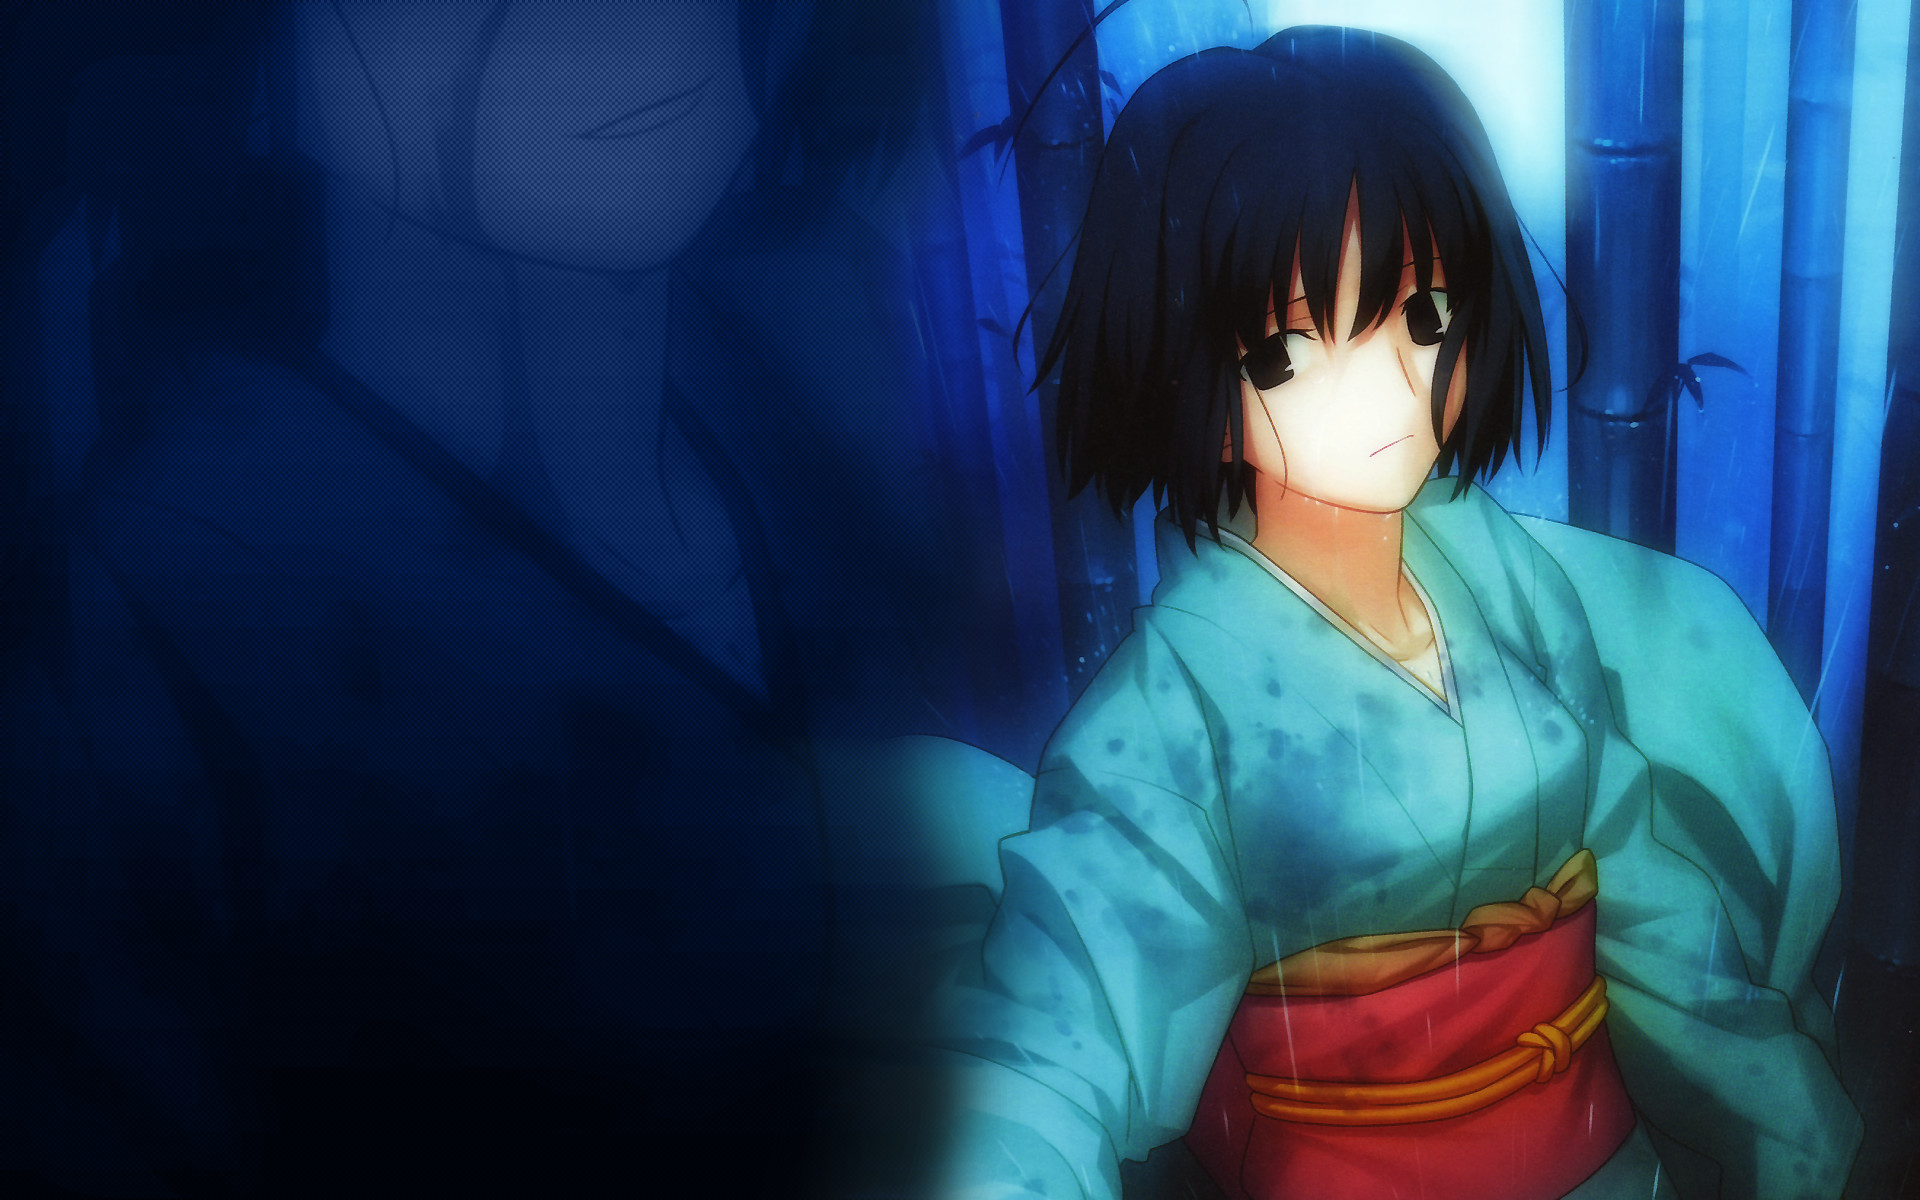
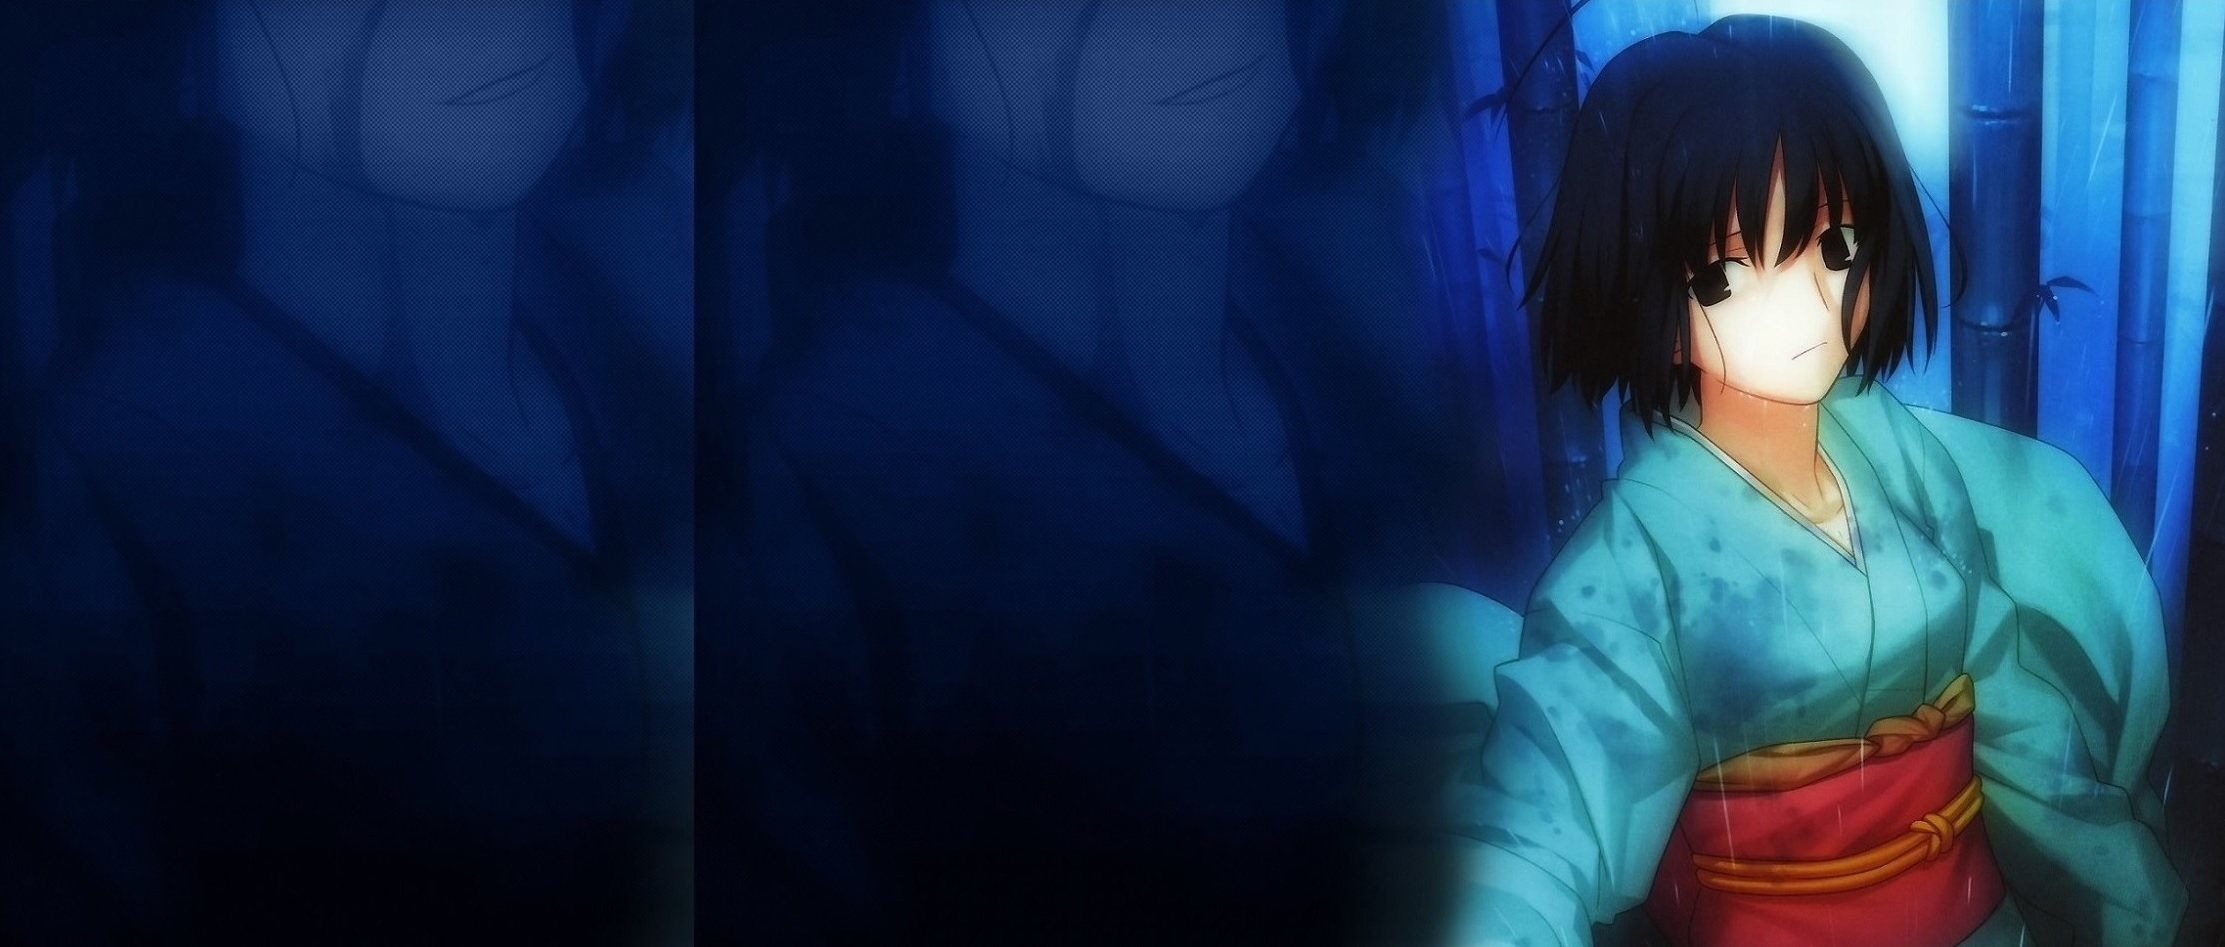
prepa n3

diff --git a/n3.html b/n3.html
@@ -34,191 +34,79 @@
 
 			<article>
 				<h3 class="titres">Historique :</h3>
-				<p>Genre : Science-Fiction, Mystère, Thriller, Comédie, Drame, Romance.</p>
-				<p>Steins;Gate est originellement un Visual Novel, un certain type de jeu-vidéo japonais.<br/>
-				En termes simplifiés, c'est un roman interactif illustré en permanence nous offrant le choix de choisir ce que le protagoniste fait à certains moments, modifiant ainsi l'histoire.<br/>
-				Il est développé par 5pb. et Nitroplus, et est sorti en Octobre 2009 sur Xbox 360, avant d'arriver sur PC en Aout 2010, puis sur d'autres plateformes ensuite.<br/>
-				Une suite intitulé "Steins;Gate 0" est sorti en Décembre 2015.<br/>
-				Il sont tous deux illustrés par Huke, un célèbre dessinateur japonais possédant un style très particulier, reconnaissable notamment par les "particules" présentes sur ses œuvres, ainsi que par les yeux de ses personnages, semblables à des lentilles d'appareil photo.</p>
-				<p>Le jeu original a été applaudi par les critiques et joueurs comme étant l'un des meilleurs Visual Novel, ainsi que l'une des meilleures histoire de science-fiction, voyage dans le temps et thriller japonais.<br/>
-				<p>Il a été adapté en un Animé de 24 épisodes par le studio WhiteFox en 2011, et est connu comme l'un des meilleurs Animés de tous les temps, étant actuellement classé 4ème avec un score de 9.09/10 sur la plateforme <a href="https://myanimelist.net/topanime.php">MyAnimeList</a>, tandit que Steins;Gate 0 a été adapté en 23 épisodes en 2018, toujours par WhiteFox.<br/>
-				Suite au succès des Animés, une version "Elite" du jeu original est sortie, retirant certains passages du scénario au profit d'ajout de scènes directement tirés de l'Animé.<br/>
-				La version Elite de 0 à été annoncé, mais nous n'avons pour le moment aucun détail dessus.</p>
-				<p>Pour fêter les 10 ans du jeu original, plusieurs annonces ont été faîtes.<br/>
-				Elles incluent notamment un nouveau jeu servant de suite, ainsi qu'une adaptation en série télévisé américaine.</p>
-				<p>Les trois jeux sont disponible sur Steam ainsi que sur différents Stores virtuels.<br/>
-				Quant aux Animés, l'original est licencié par Netflix, mais semble partir et revenir de temps à autre, tandit que 0 est accessible sur Wakanim.</p>
-				<p>Il est bon de noter que Steins;Gate n'est en réalité qu'une partie d'une série bien plus grande, intitulé "Science Adventure Series", qui consiste en de multiples jeux-vidéos se déroulant dans le même univers fictif crée par 5pb. et Nitroplus.</p>
+				<p>Genre : Enigme, Mystère, Thriller, Psychologie, Horreur, Romance, Drame, Surnaturel, Police.</p>
+				<p></p>
 			</article>
 
 			<article>
 				<h2 class="titres">Synopsis :</h2>
-				<p>Okabe Rintarou est un jeune homme aimant se faire passer pour "Hououin Kyouma", un scientifique fou pourchassé par une organisation secrète mondiale voulant la fin du monde, causant l'amusement de ses amis proches.</p>
-				<p>Un jour, alors qu'il assiste à une conférence scientifique sur le voyage dans le temps, il découvre le corps sans vie de Makise Kurisu, une jeune prodige des sciences extrèmement connue pour ses théories innovantes sur de nombreux sujets, une véritable étoile montante du monde scientifique.<br/>
-				En envoyant un message à un de ses amis pour le prévenir de la nouvelle, il se retrouve dans un monde sans personne, avant de reprendre conscience quelques minutes plus tard, avec certains phénomènes étranges s'étant passé entre-temps...</p>
-				<p>Pensant avoir perdu connaissance suite au choc, Okabe ne prête pas trop attention à ce qu'il lui est arrivé, jusqu'à ce qu'il remarque que ses souvenirs ne correspondent pas avec ceux de ses amis, et rencontre Makise Kurisu, bel et bien vivante.<br/>
-				Il découvre alors que, par pur hasard, lui et ses amis ont créé une machine à voyager dans le temps !</p>
-				<p>Jouissant de cet outil fascinant, Okabe et ses amis, qui seront également rejoints par Makise Kurisu, réaliseront de multiples expériences, jusqu'à ce qu'ils doivent en payer les conséquences...</p>
-				<figure class="fig">
-					<iframe width="560" height="315" src="https://www.youtube.com/embed/KPjGd8zKecE"></iframe>
-					<figcaption>L'Opening du jeu, illustrant un peu plus que celui de l'Animé. (Et puis je préfère cette musique-ci)</figcaption>
-				</figure>
+				<p></p>
 			</article>
 
 			<article>
 				<h2 class="titres">Personnages Principaux :</h2>
 				<div class="PP">
-					<h3 class="soustitres">Okabe Rintarou</h3>
+					<h3 class="soustitres">Shiki Ryougi</h3>
 					<div>
 						<figure>
-							<img src="images/SG/Okabe.jpg" alt="Okabe Rintarou, le protagoniste" class="IMGfloatr"/>
+							<img src="images/KNK/Shiki.jpg" alt="Shiki Ryougi, le protagoniste" class="IMGfloatr"/>
 						</figure>
-						<p>Le protagoniste de l'œuvre; il est surnommé "Okarin" par ses amis, un mélange de son nom et prénom.<br/>
-						Il se fait passer pour "Hououin Kyouma", un scientifique fou voulant assouvir le monde qui est traqué par une organisation secrète voulant la fin de celui-ci, prenant ainsi une attitude très théâtral et excentrique, parlant même seul dans son téléphone éteint.</p>
-						<p>Okabe est socialement inapte, au point que Kurisu considère Mayuri, qui est lente d'esprit, comme quelqu'un de normal à côté de lui.<br/>
-						Il semble cependant réussir à surmonter ce handicap lors de situations dangereuses, le laissant paraître comme une personne attentionné.<br/>
-						Il est également intelligent, mais loin du niveau d'un génie tel que Kurisu, surtout que sa naïveté le bride.</p>
-						<p>Il est représenté en permanence avec une blouse blanche de scientifique, qu'il affectionne grandement.</p>
+						<p></p>
 					</div>
 
-					<h3 class="soustitres">Makise Kurisu</h3>
+					<h3 class="soustitres">Mikiya Kokuto</h3>
 					<div>
 						<figure>
-							<img src="images/SG/Kurisu.jpg" alt="Makise Kurisu, la chercheuse de génie" class="IMGfloatr"/>
+							<img src="images/KNK/Mikiya.jpg" alt="Mikiya, le garçon gentil" class="IMGfloatr"/>
 						</figure>
-						<p>Deutéragoniste du récit; Kurisu est une jeune femme japonaise ayant fait ses études en Amérique.<br/>
-						Elle est une véritable génie des sciences ayant écrit de nombreuses thèses publiées dans divers magazines faisant le tour du monde, ce qui a fait d'elle une véritable
-						célébrité à la fois en Amérique et au Japon.</p>
-						<p>Dû à sa célébrité, Kurisu est souvent enviée par les personnes autour d'elle, la forçant à développer une personnalité forte et froide, lui causant de n'avoir que très peu d'amis.<br/>
-						L'étrange personnalité d'Okabe piquera sa curiosité, l'amenant à rejoindre son cercle d'amis.</p>
-						<p>Elle est une "tsundere", un cliché de personnalité japonais désignant les personnes qui ont honte de leurs sentiments affectueux, les poussant à les cacher sous un masque de colère et de froideur.</p>
+						<p></p>
 					</div>
 
-					<h4 class="soustitres">Mayuri Shina</h4>
+					<h4 class="soustitres">Touko Aozaki</h4>
 					<div>
 						<figure>
-							<img src="images/SG/Mayuri.jpg" alt="Mayuri Shina, l'amie d'enfance du protagoniste" class="IMGfloatr"/>
+							<img src="images/KNK/Touko.jpg" alt="Touko Aozaki, l'étrange magicienne" class="IMGfloatr"/>
 						</figure>
-						<p>L'amie d'enfance d'Okabe; qui, tout comme lui, est surnommé par un mélange de son nom et prénom, donnant ainsi "Mayushi".</p>
-						<p>Mayuri est une jeune fille optimiste très énergétique appréciant la vie, qui a la particularité de saluer quelqu'un avec un jingle qui lui est propre : "Tuturuuu".<br/>
-						Etant un petit peu lente d'esprit, elle ne comprend pas vraiment ce que Okabe et Kurisu réalisent au cours de la série, mais aime être à leurs côtés.</p>
-						<figure>
-							<iframe width="300" height="120" src="https://www.youtube.com/embed/Tuql5GfWnP4"></iframe>
-						</figure>
-					</div>
-					
-					<h4 class="soustitres">Itaru Hashida</h4>
-					<div>
-						<figure>
-							<img src="images/SG/Daru.jpg" alt="Daru Hishida, le pro de l'informatique" class="IMGfloatr" id="Daru"/>
-						</figure>
-						<p>Un ami qu'Okabe s'est fait lorsqu'il était à l'université; il est également surnommé par un mélange de son nom et prénom : "Daru".</p>
-						<p>Itaru est un véritable otaku, préférant le virtuel au réel, et utilisant beaucoup de termes liés à cette communauté.<br/>
-						Il a aussi un niveau absolument démentiel en informatique, ce faisant ainsi appelé "Super Hacker" par Okabe, bien qu'il soit énervé par la mauvaise prononciation d'Okabe.<br/>
-						Il démontre également une grande perversité, qui est utilisé comme gag récurrent durant la série.</p>
-						Il est représenté en quasi-permanence devant son ordinateur.</p>
+						<p></p>
 					</div>
 				</div>
 			</article>
 
 			<article>
 				<h2>Pourquoi j'aime cette œuvre :</h2>
-				<h3 class="soustitres">1. Le concept de voyage dans le temps</h3>
-				<p>Je suis un fan du concept de voyage dans le temps, et j'ai apprécié, au moins un minimum, toutes les œuvres que j'ai regardé utilisant ce procédé, notamment celles qui utilisent l'effet papillon.</p>
-				<p>Steins;Gate va plus loin que la plupart en référencant des théories et personallités réelles, tel que les trous noir de Kerr, les étoiles à Neutrons, les champs de Tachyons... faisant ainsi du récit de Steins;Gate l'un, si ce n'est le, plus plausible et crédible scientifiquement et théoriquement parlant.<br/>
-				Le fameux John Titor et ses théories se verront quant à eux appropriés par l'œuvre, utilisant activement le personnage additionnées aux les trous noir de Kerr et à un système de "ligne d'univers".<br/>
-				Le scénariste en est d'ailleurs fier, déclarant que la science utilisé dans son histoire est à 99% réelle.</p>
-				<p id="Titor">Pour ceux qui ne connaissent pas John Titor, je vous invite vivement à faire un petit tour sur <a href="http://paulbinocle.blogspot.com/2006/11/dossier-john-titor.html">ce petit blog</a>, reprenant les grandes lignes de l'affaire.</p>
-				<p>De plus, le récit contient certaines originalités, tel qu'une machine à voyager dans le temps sous forme de micro-onde, ce qui peut paraître absurde au premier abord, mais se révelera vraisemblable lorsques les explications scientifiques le concernant sont données plus tard dans le récit.</p>
-				<p>Ces originalités, couplées à la présence de nombreuses explications et expériences théoriquement plausible, font de Steins;Gate une expérience unique, qui ravi le fan de ce concept fascinant que je suis.</p>
+				<h3 class="soustitres">1. </h3>
+				<p></p>
 
-				<h3 class="soustitres">2. Le thriller</h3>
-				<p>Aujourd'hui, Steins;Gate est surtout réputé pour son aspect thriller qui, de par son utilisation de voyages dans le temps, brise le mental des personnages, nous happant ainsi dans une histoire qui nous enflamme.</p>
-				<p>La lente découverte des conséquences de leurs actions brisera les personnages, surtout Okabe, dont la douleur, le stress et le désespoir est incroyablement bien retranscrit.<br/>
-				Bien qu'il se fasse passer pour le fameux scientifique fou "Hououin Kyouma", il reste bel et bien un homme plus ou moins ordinaire, et se verra complètement dépassé par ce qu'il lui arrive, mais n'abandonnera pas et continuera de se battre contre le temps, faisant de l'histoire un thriller incroyablement accrochant, nous scotchant sur notre siège.</p>
+				<h3 class="soustitres">2. </h3>
+				<p></p>
+
+				<h3 class="soustitres">3. </h3>
+				<p></p>
 			</article>
 
 			<article>
 				<h2>Les points positifs et négatifs :</h2>
-				<p><mark class="ppos">.</mark> <mark class="lex">La partie thriller</mark>, qui est captivante et émouvante.</p>
-				<p><mark class="ppos">.</mark> <mark class="lex">Les explications sur le voyage dans le temps</mark>, qui sont fascinantes et plausibles.</p>
-				<p><mark class="ppos">.</mark> <mark class="lex">Le doublage</mark>, qui est au top.<br/>
-				Surtout Mamoru Miyao, qui a fait une performance spectaculaire sur Okabe.</p>
-				<p><mark class="ppos">.</mark> <mark class="lex">La musique</mark>, qui, dans la partie thriller, amplifie la tension.<br/>
-				Celle de la partie "tranche-de-vie" est cependant, je trouve, oubliable.</p>
-				<p><mark class="ppos">.</mark> <mark class="lex">L'Animation et le style de dessin</mark>, qui sont extrèmement constants.<br/>
-				Ils sont d'un bon niveau, sans pour autant être extraordinaires, mais ils sont très constants, donnant un très bon rendu.</p>
-				<p><mark class="pneg">.</mark> <mark class="lex">Dur à recommender à un néophyte</mark>, vu la quantité de références geek/otaku.</p>
-				<p><mark class="pneg">.</mark> <mark class="lex">Les bruitages de cigales</mark>, qui sont un petit peu trop nombreux.<br/>
-				Steins;Gate possède énormément de plans contenant des bruitages de cigales.<br/>
-				Ils sont réalistes, aidant ainsi à l'immersion d'un Akihabara représenté réalistiquement, mais sont honnêtement, je trouve, très agaçants.<br/>
-				Fort heureusement, ils disparaissent lors de la partie thriller, nous empêchant ainsi de nous sortir du récit.</p>
-				<p><mark class="pmid">.</mark> <mark class="lex">Les 12 premiers épisodes</mark>, qui sont très lents.<br/>
-				Prenant bien le temps de nous présenter les personnages, nous donnant des explications sur le voyage dans le temps, et nous montrant les personnages réaliser des expériences, les 12 premiers épisodes sont vraiment lents.<br/>
-				Steins;Gate est aujourd'hui réputé et vendu comme étant un thriller fascinant, pas pour ses gags entre personnages, causant beaucoup de spectateurs d'avoir du mal avec ces épisodes, leur donnant presque envie d'arrêter de regarder.</p>
-				<p>Personnellement, j'était captivé par les explications et experiences de cette partie-ci, donc je ne me suis pas ennuyé une seule seconde, bien qu'il est bien vrai que j'ai préféré la partie thriller.</p>
-				<p>A noter que l'épisode 1 est captivant, suivi des épisodes 2 à 11 qui sont bien plus lents, en passant par un épisode 9 qui nous laisse présager la suite, avant de tomber sur la fin du fameux épisodes 12, qui nous fait clairement basculer dans le thriller.</p>
-				<p><mark class="pmid">.</mark> <mark class="lex">Les personnages</mark>, qui sont presque tous des clichés ambulants.<br/>
-				Termes un peu plus techniques que je ne vais pas expliquer, mais entre le chuunibyou, le pervers geek, la tsundere, la fille tête en l'air kawaii, la cat-girl, etc, les personnages de Steins;Gate se noient dans les clichés, ce qui causera la lassitude de certains, bien que tous les personnages sont correctement développées plus tard.</p>
-				<p><mark class="pmid">.</mark> <mark class="lex">La fin</mark>, que beaucoup trouvent anti-climatique.</p>
-				<p><mark class="pmid">.</mark> <mark class="lex">Le mélange des genres</mark>, qui est très, voir trop atypique.<br/>
-				Ce n'est pas pour rien si je parle de "partie" depuis tout à l'heure, les 12 premiers et les 12 derniers épisodes pouvant presque être désignés comme étant des séries différentes.</p>
-				Les 12 premiers épisodes suivent le quotidien de personnages un petit peu fous découvrant le voyage dans le temps, nous offrant beaucoup de scènes d'humour, faisant de la série un "Slice Of Life/Tranche de vie" humouristique avec un fond de science-fiction.<br/>
-				Les 12 derniers épisodes, quant à eux, suivent un Okabe dévasté par ses erreurs alors qu'il essaye de tout réparer, nous accordant ainsi un thriller phénoménale sur bases de science-fiction.</p>
-				<p>Bien que les 12 premiers épisodes semblent barbants pour beaucoup, ces personnes s'accordent à dire qu'ils sont un mal nécessaire nous permettant de connaitre les personnages, sans quoi les épisodes thriller n'auraient absolument aucun poids.</p>
+				<p><mark class="ppos">.</mark> <mark class="lex"></mark>.</p>
+				<p><mark class="pneg">.</mark> <mark class="lex"></mark>.</p>
+				<p><mark class="pmid">.</mark> <mark class="lex"></mark>.</p>
 			</article>
 
 			<article>
 				<h2 class="titres">L'ordre de visionnage :</h2>
-				<h3 class="soustitres">Animé VS Visual Novel</h3>
-				<p>Tout d'abord : Animé ou Visual Novel ?<br/>
-				Pour l'original, l'Animé est une excellente adaptation, mais le Visual Novel contient nettement plus de détails, permettant au fans de voyage dans le temps d'y trouver leur plaisir.<br/>
-				Pour 0... j'en reparlerais après.</p>
-
-				<h3 class="soustitres">L'ordre :</h3>
-				<p>Je vais commencer par donner l'ordre de visionnage, et j'expliquerais ensuite.</p>
-				<ul>
-					<li>Steins;Gate</li>
-					<li>Steins;Gate : Oukoubakko no Poriomania</li>
-					<li>Steins;Gate Movie : Fuka Ryouiki no Déjà vu</li>
-					<li>Steins;Gate : Soumei Eichi no Cognitive Computing</li>
-					<li>Steins;Gate 23β : Kyoukaimenjou no Missing Link - Divide By Zero</li>
-					<li>Steins;Gate 0</li>
-					<li>Steins;Gate 0 : Kesshou Takei no Valentine - Bittersweet Intermedio</li>
-				</ul>
-				<p>Oukoubakko no Poriomania est un OAV qui sert d'épisode 25/épilogue à la série, et Movie : Fuka Ryouiki no Déjà vu est un film se déroulant après le dit épilogue.<br/>
-				Ils sont tous les deux non-canon, mais sont tout de même extrèmement appréciables.<br/>
-				Ils sont cependant accessible légalement uniquement par coffret DVD Intégrale...</p>
-				<p>Soumei Eichi no Cognitive Computing consiste en 4 mini-épisodes de 3 minutes montrant des petits gags entre personnages.<br/>
-				Ils ne sont ni canon, ni licenciés.</p>
-				<p>23β : Kyoukaimenjou no Missing Link - Divide By Zero est un TV spécial qui montre une fin alternative à la série d'origine, nous projetant ainsi dans l'univers de 0.<br/>
-				Il possède cependant une petite particularité : C'est en réalité un prologue au Visual Novel de 0 , pas de l'Animé.<br/>
-				On peut le voir en vérifiant les dates indiquées dans les épisodes. Mis à part cela, il n'y a pas de différence.<br/>
-				Il n'est pas licencié non-plus.</p>
-				<p>L'Animé de 0 possède une grosse particularité : Il est en réalité une suite au Visual Novel de 0.<br/>
-				Pour faire simple , le Visual Novel de 0 implique un grand nombre de boucle temporelle.<br/>
-				Pour éviter d'être trop répétitif, le jeu nous en montre quelque-unes, puis saute à la conclusion.<br/>
-				L'Animé montre la toute dernière boucle qui a été sauté, permettant de voir comment la conclusion a été atteinte par les personnages.<br/>
-				On peut tout à fait apprécier l'Animé sans avoir joué au jeu, mais la présence de non-explication quant à certains éléments pourront distraire les plus attentifs.</p>
-				<p>Kesshou Takei no Valentine - Bittersweet Intermedio est un OAV réalisé pour fêter la Saint Valentin.<br/>
-				Il prend place quelque part entre le début de l'épisode 11 et la fin de l'épisode 13.<br/>
-				Il est disponible légalement uniquement en coffret DVD Intégrale.</p>
+				<h3 class="soustitres"></h3>
+				<p></p>
 			</article>
 
 			<article>
 				<h3 class="titres">Liste d'œuvres similaires :</h3>
 				<h4 class="soustitres">Animés et Mangas</h4>
 				<ul>
-					<li>Re : Zero</li>
-					<li>Erased</li>
-					<li>Madoka Magica</li>
-					<li>Link Click</li>
+					<li></li>
 				</ul>
 
 				<h4 class="soustitres">Séries</h4>
 				<ul>
-					<li>Dark</li>
-					<li>The OA</li>
+					<li></li>
 				</ul>
 			</article>
 		</div>

diff --git a/style.css b/style.css
@@ -175,10 +175,12 @@ figcaption {
 	font-size: 80%;
 	font-style: italic;
 }
+
 /* Only N3 */
 
 #KNKBody {
-	background: url("images/KNK/KNKWP.jpg") fixed;
+	background: url("images/KNK/KNKWP.jpg") fixed no-repeat;
+	background-size: cover;
  	width: 100%;
  	height: 100%;
 }
